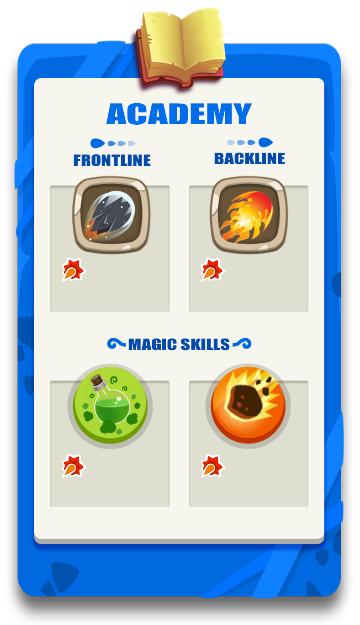
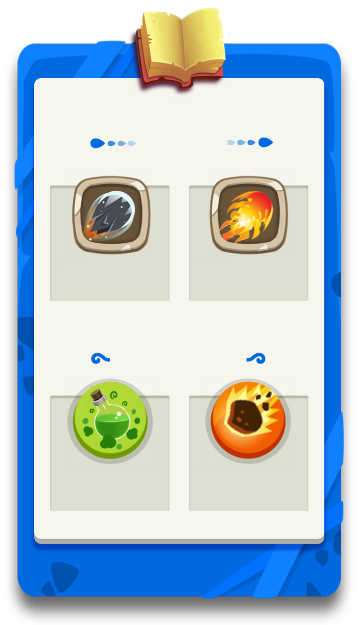
academy dialog ui

diff --git a/src/css/main.less b/src/css/main.less
@@ -325,6 +325,107 @@ content {
 				.dlg-exit-button {
 					top: 48px;
 				}
+
+				h2 {
+					position: absolute;
+					top: 100px;
+					left: 40px;
+					right: 40px;
+				}
+
+				h3 {
+					position: absolute;
+					color: #006ae0;
+
+					&.front {
+						top: 152px;
+						left: 63px;
+					}
+
+					&.back {
+						top: 152px;
+						left: 208px;
+					}
+
+					&.magic {
+						top: 350px;
+						left: 120px;
+					}
+				}
+
+				.box {
+					// background: #0002;
+					position: absolute;
+					width: 101px;
+					height: 47px;
+					text-align: center;
+
+					&.front {
+						top: 256px;
+						left: 59px;
+					}
+
+					&.back {
+						top: 256px;
+						left: 199px;
+					}
+
+					&.potion {
+						top: 463px;
+						left: 59px;
+					}
+
+					&.comet {
+						top: 463px;
+						left: 199px;
+					}
+
+					.value {
+						position: relative;
+						padding: 0 0 0 31px;
+						color: #fff;
+						font-size: 22px;
+						text-shadow: 0 1px 1px #f00a,
+									0 -1px 1px #f00a,
+									1px 0 1px #f00a,
+									-1px 0 1px #f00a;
+
+						&:before {
+							content: "";
+							background: url(~/gfx/attsprite-sheet0.png) 50% 50%/contain no-repeat;
+							position: absolute;
+							top: 3px;
+							left: 5px;
+							width: 24px;
+							height: 24px;
+						}
+					}
+
+					.price {
+						background: url(~/gfx/academybtn-sheet0.png) 50% 50% no-repeat;
+						background-position: 0 -35px;
+						background-size: 100% auto;
+						position: absolute;
+						bottom: -17px;
+						left: 0;
+						right: 0;
+						height: 33px;
+						color: #fff;
+						font-size: 18px;
+						text-align: left;
+						text-shadow: 0 1px 1px #000a,
+									0 -1px 1px #000a,
+									1px 0 1px #000a,
+									-1px 0 1px #000a;
+						padding: 6px 0 0 49px;
+						filter: drop-shadow(0 0 1px #0007);
+
+						&.active {
+							background-position: 0 0;
+							cursor: pointer;
+						}
+					}
+				}
 			}
 		}
 

diff --git a/src/partials/content.htm b/src/partials/content.htm
@@ -1,4 +1,4 @@
-<content data-show="start" data-dialog="pause" data-context="game-content">
+<content data-show="start" data-dialog="academy" data-context="game-content">
 	<!-- start view -->
 	<div data-area="start">
 		<div class="top-level">23</div>
@@ -32,6 +32,28 @@
 	<div data-area="academy">
 		<div class="bg-academy">
 			<div class="dlg-exit-button"></div>
+			<h2>Academy</h2>
+			<h3 class="front">Frontline</h3>
+			<h3 class="back">Backline</h3>
+			<h3 class="magic">Magic Skills</h3>
+
+			<div class="box front">
+				<span class="value">36</span>
+				<span class="price active">510</span>
+			</div>
+			<div class="box back">
+				<span class="value">36</span>
+				<span class="price active">510</span>
+			</div>
+			<div class="box potion">
+				<span class="value">36</span>
+				<span class="price active">510</span>
+			</div>
+			<div class="box comet">
+				<span class="value">36</span>
+				<span class="price active">510</span>
+			</div>
+
 			<div class="btn-ok"></div>
 		</div>
 	</div>
